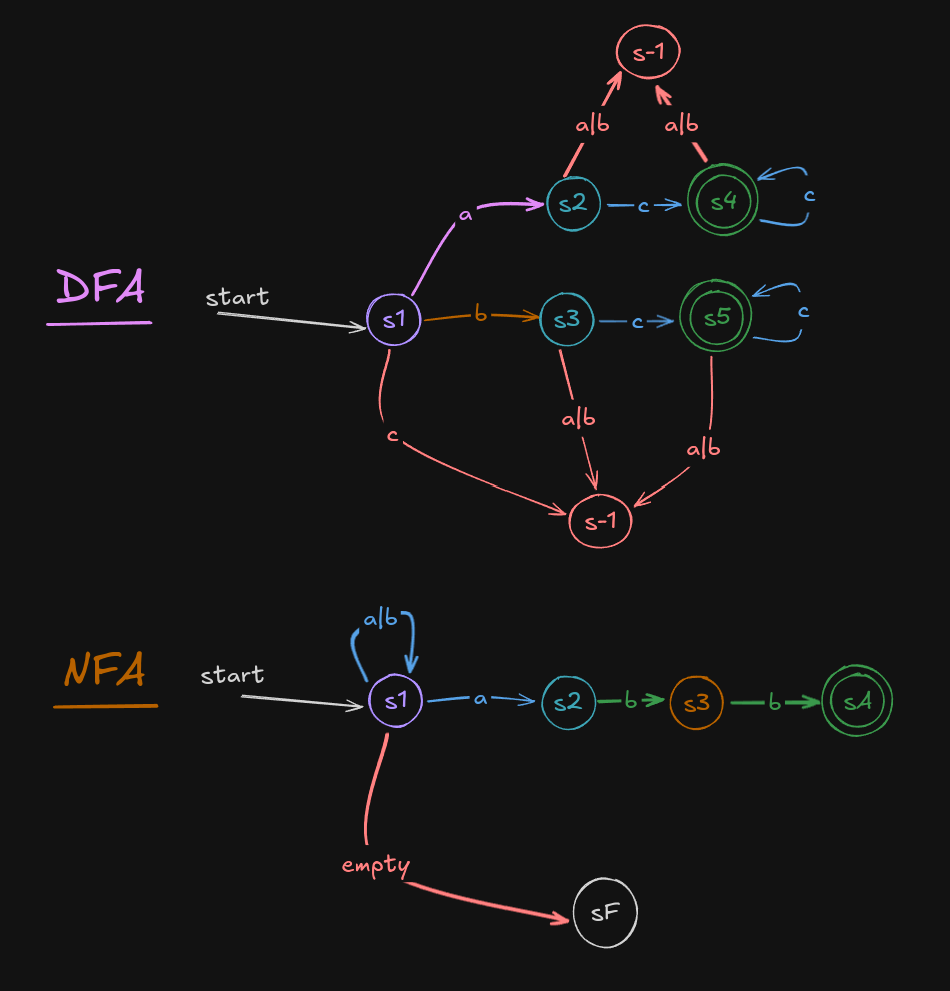
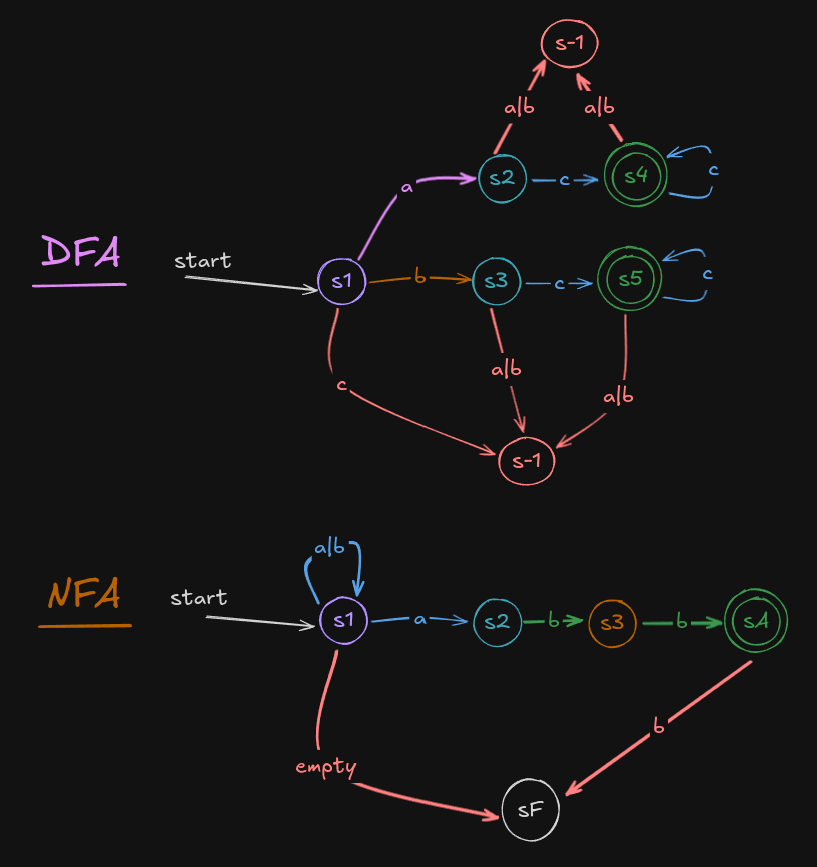
fixed erroneously passing nfa tests, implemented full CLI, updated diagram

diff --git a/src/command_line.py b/src/command_line.py
@@ -38,21 +38,57 @@ def cli_run():
 
         elif user_input == 'dfa':
             dfa = Dfa.Dfa()
+            run_dfa = True
+            dfa_count = 0
+            print('~~~~~~~~~~~~~~~~~~~~~~~~~~~~~~~~~~~~~~~~~')
             print('~~~~~~~~~~~~~~~~~~~~~~~~~~~~~~~~~~~~~~~~~')
             print('~~~Deterministic Finite State Machine~~~~')
             print('~~~~~~~~~~~~~~~~~~~~~~~~~~~~~~~~~~~~~~~~~')
-            print('~~~~~~~~~~Enter an input string~~~~~~~~~~')
-            dfa_input  = input('~')
-            if dfa_input == 'q': 
-                run = False
-                break
-            dfa.input(dfa_input, 0)
-            print('~~~~~~~~~~~~~~~~~~~~~~~~~~~~~~~~~~~~~~~~~')
+            while run_dfa:
+                print('~~~~~~~~~~~~~~~~~~~~~~~~~~~~~~~~~~~~~~~~~')
+                print('~~~~~~~~~~Enter an input string~~~~~~~~~~')
+                print('~~~~~~~~~~Or enter q to return~~~~~~~~~~~')
+                print('~~~~~~~~~~~~~~~~~~~~~~~~~~~~~~~~~~~~~~~~~')
+                dfa_input  = input('~')
+                if dfa_input != 'q': 
+                    dfa.input(dfa_input, 0)
+                    dfa_count += 1
+
+                elif dfa_input == 'q':
+                    run_dfa = False
+                
+                if dfa_count > 5:
+
+                    print('~~~~~~~~~~~~~~~~~~~~~~~~~~~~~~~~~~~~~~~~~')
+                    print('~~~~~Accepted language is: (a+b)c*~~~~~~~')
 
         elif user_input == 'nfa':
+            run_nfa = True
+            nfa_count = 0
             print('~~~~~~~~~~~~~~~~~~~~~~~~~~~~~~~~~~~~~~~~~')
-            print('NFA not implemented yet')
             print('~~~~~~~~~~~~~~~~~~~~~~~~~~~~~~~~~~~~~~~~~')
+            print('~Non-Deterministic Finite State Machine~~')
+            print('~~~~~~~~~~~~~~~~~~~~~~~~~~~~~~~~~~~~~~~~~')
+            while run_nfa:
+                print('~~~~~~~~~~~~~~~~~~~~~~~~~~~~~~~~~~~~~~~~~')
+                print('~~~~~~~~~~Enter an input string~~~~~~~~~~')
+                print('~~~~~~~~~~Or enter q to return~~~~~~~~~~~')
+                print('~~~~~~~~~~~~~~~~~~~~~~~~~~~~~~~~~~~~~~~~~')
+                nfa_input  = input('~')
+                nfa = Nfa.Nfa()
+                if nfa_input != 'q': 
+                    nfa.input(nfa_input, 0)
+                    if nfa.get_result() == True:
+                        print('String accepted!')
+                    else:
+                        print('String Rejected')
+                    nfa_count += 1
+                else:
+                    run_nfa = False
+                if nfa_count > 5:
+                    print('~~~~~~~~~~~~~~~~~~~~~~~~~~~~~~~~~~~~~~~~~')
+                    print('~~~Accepted language is: (a | b)*abb~~~~~')
+
 
         elif user_input == 'test':
             test = machine_test.MachineTest()

diff --git a/test/machine_test.py b/test/machine_test.py
@@ -93,7 +93,7 @@ class MachineTest(unittest.TestCase):
     def test_nfa1(self):
         """NFA test - expected to pass"""
         nfa = Nfa.Nfa()
-        in_string = 'aabbb'
+        in_string = 'aabb'
         nfa.input(in_string, 1)
         result = nfa.get_result()
         self.assertEqual(result, True)
@@ -206,12 +206,23 @@ class MachineTest(unittest.TestCase):
         self.assertEqual(result, False)
         print(f'Nfa Test12 - \'{in_string}\' passed')
 
+    def test_nfa_13(self):
+        """NFA test - expected to fail"""
+        nfa = Nfa.Nfa()
+        in_string = 'abbb'
+        nfa.input(in_string, 1)
+        result = nfa.get_result()
+        self.assertEqual(result, False)
+        print(f'Nfa Test13 - \'{in_string}\' passed')
+
+
 
        
 
     def cli_test(self):
         print('~~~~~~~~~~~~~~~~~~~~~~~~~~~~~~~~~~~~~~~~~')
         print('Running DFA Tests')
+        print('~~~~~~~~~~~~~~~~~~~~~~~~~~~~~~~~~~~~~~~~~')
         self.test_dfa1()
         self.test_dfa2()
         self.test_dfa3()
@@ -224,6 +235,7 @@ class MachineTest(unittest.TestCase):
         self.test_dfa_10()
         print('~~~~~~~~~~~~~~~~~~~~~~~~~~~~~~~~~~~~~~~~~')
         print('Running NFA Tests')
+        print('~~~~~~~~~~~~~~~~~~~~~~~~~~~~~~~~~~~~~~~~~')
         self.test_nfa1()
         self.test_nfa2()
         self.test_nfa3()
@@ -236,7 +248,7 @@ class MachineTest(unittest.TestCase):
         self.test_nfa_10()
         self.test_nfa_11()
         self.test_nfa_12()
-        print('~~~~~~~~~~~~~~~~~~~~~~~~~~~~~~~~~~~~~~~~~')
+        self.test_nfa_13()
         
         
         

diff --git a/src/Nfa.py b/src/Nfa.py
@@ -9,6 +9,7 @@ class Nfa:
         return self.accepted
     
     def input(self, input_string, test):
+        self.accepted = False
         if len(input_string)== 0:
             return
         self.state_1(input_string, test) 
@@ -27,17 +28,21 @@ class Nfa:
     def state_2(self, input_string, test):
         if len(input_string)== 0:
             return
-        elif input_string[0] == 'a' or input_string[0] == 'b':
+        elif input_string[0] == 'b':
             self.state_3(input_string[1:], test)            
 
     def state_3(self, input_string, test):
         if len(input_string)== 0:
             return
-        elif input_string[0] == 'a' or input_string[0] == 'b':
+        elif input_string[0] == 'b':
             self.state_A(input_string[1:], test)            
 
 
         
     def state_A(self, input_string, test):
-        self.accepted = True
-
+        if len(input_string)== 0:
+            self.accepted = True
+            return
+        else:
+            self.accepted = False
+            return
